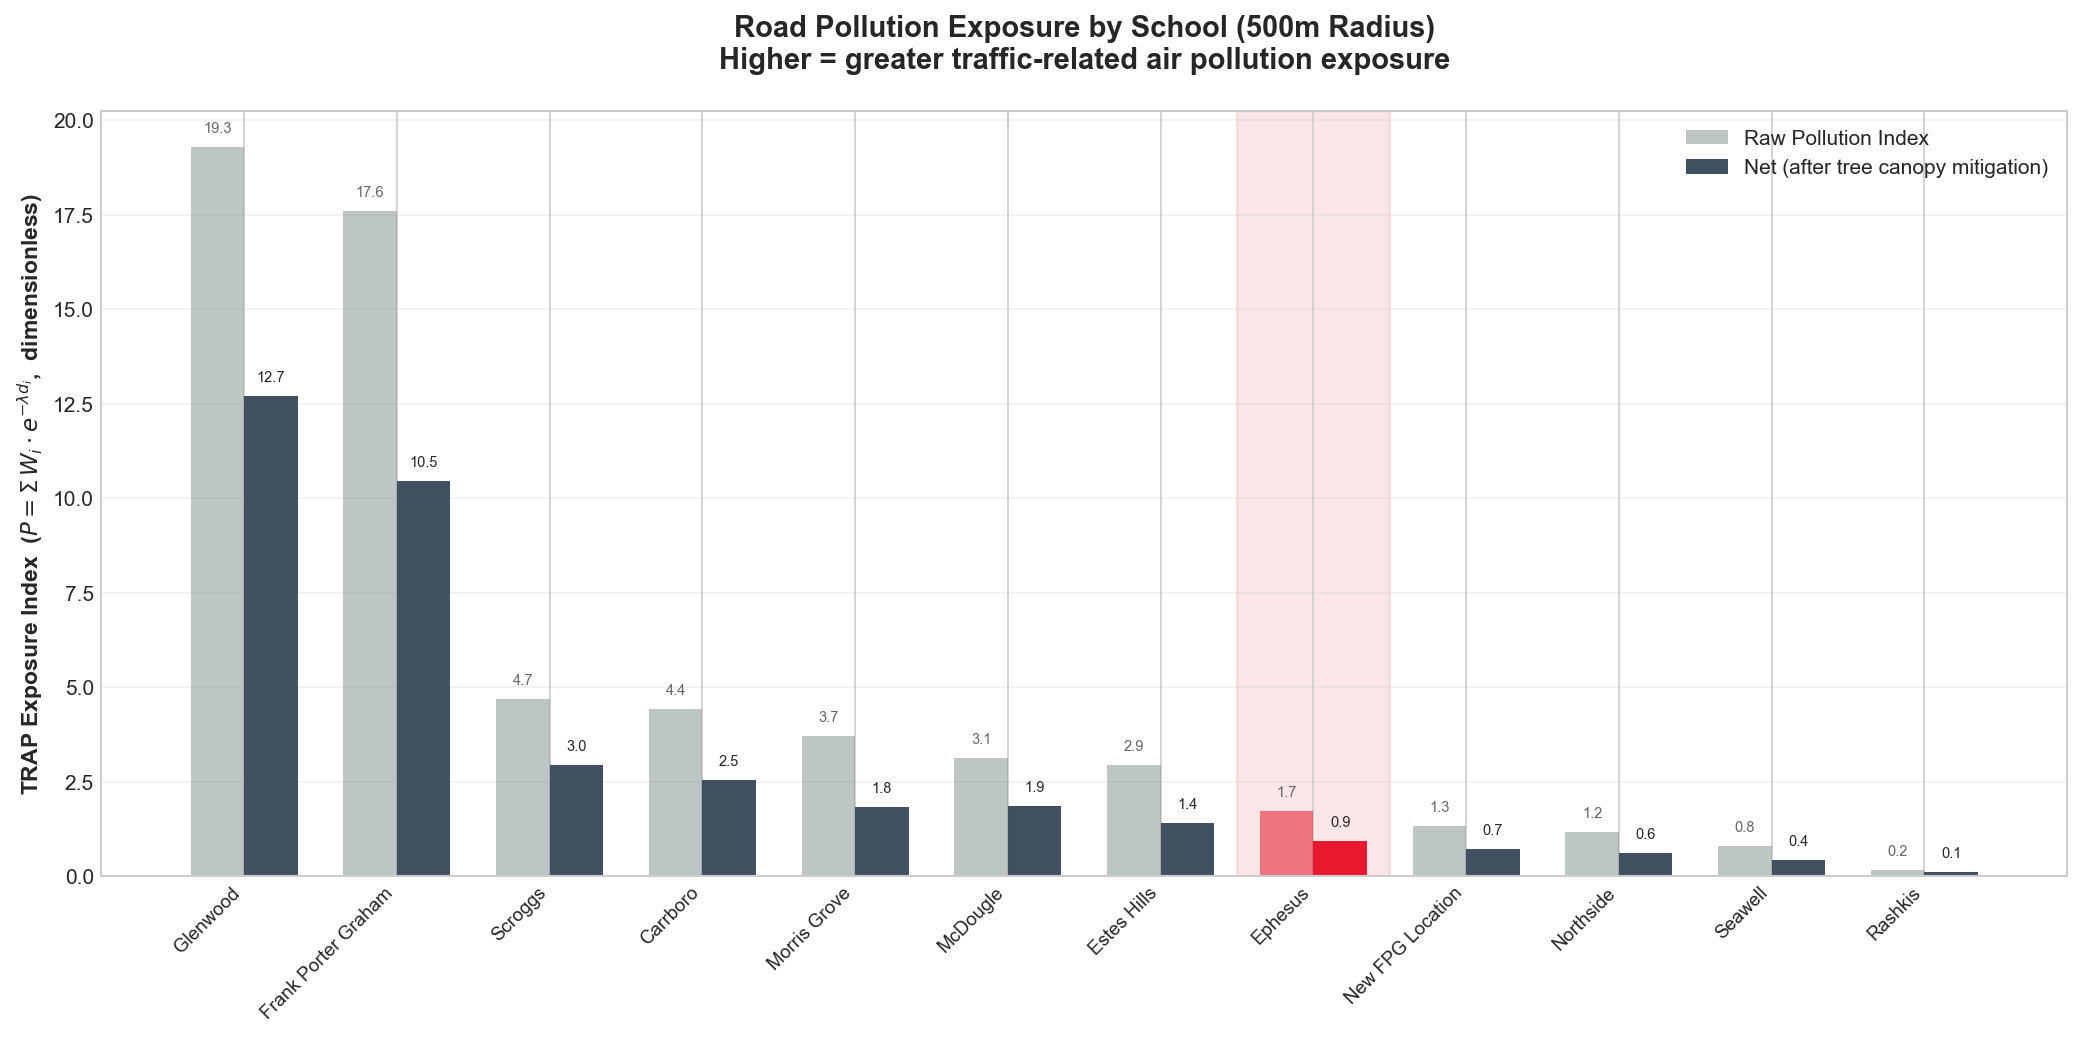
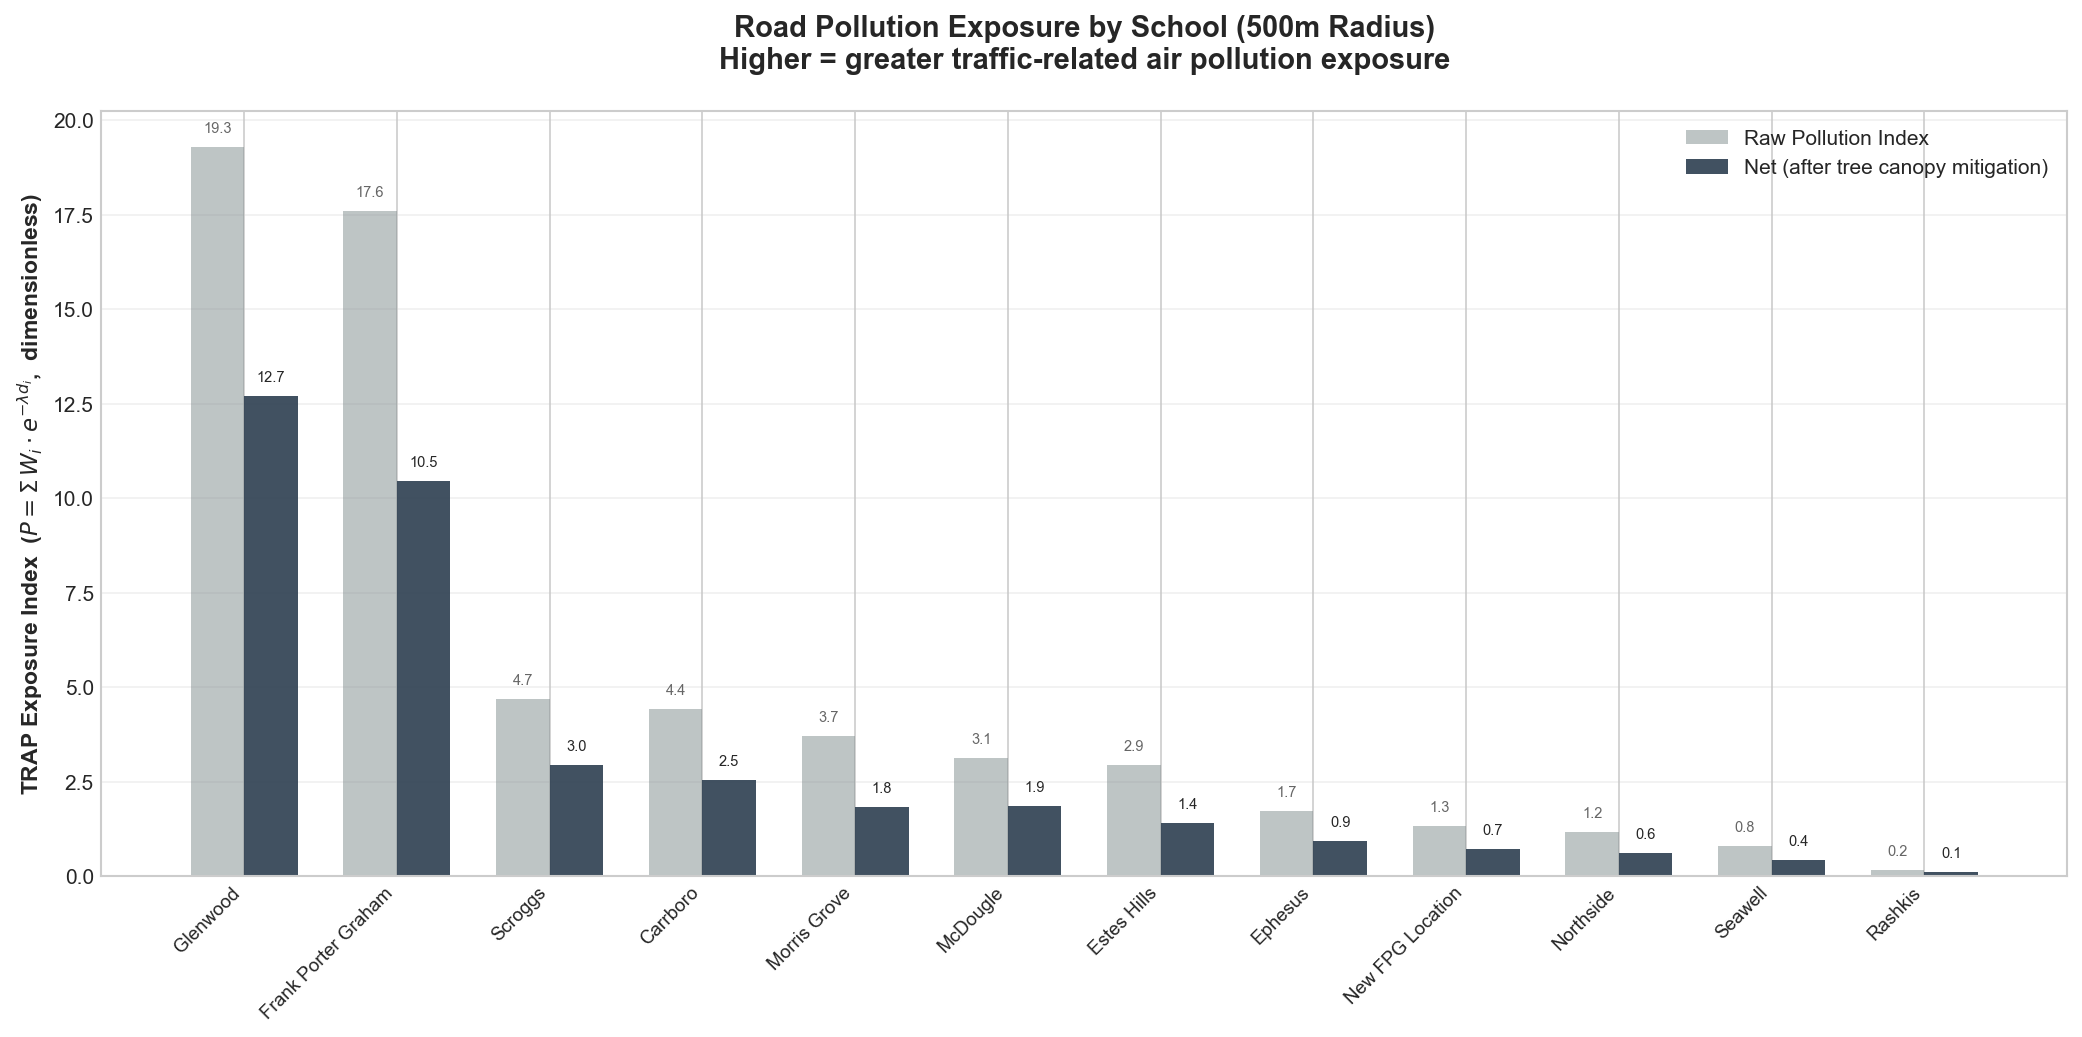
Remove Ephesus highlighting from road pollution comparison chart
Treat all schools uniformly with consistent grey bars and no background
highlight band, so the chart presents an unbiased comparison.

Changed region(s): [[0.5932, 0.0926, 0.6868, 0.864]]

diff --git a/src/road_pollution.py b/src/road_pollution.py
@@ -1181,9 +1181,8 @@ def create_pollution_chart(df: pd.DataFrame):
     raw_vals = df_sorted["raw_500m"].values
     net_vals = df_sorted["net_500m"].values
 
-    # Colors: Ephesus in red, others gray
-    raw_colors = [EPHESUS_COLOR if "Ephesus" in s else "#7f8c8d" for s in schools]
-    net_colors = [EPHESUS_COLOR if "Ephesus" in s else "#2c3e50" for s in schools]
+    raw_colors = "#7f8c8d"
+    net_colors = "#2c3e50"
 
     bars_raw = ax.bar(x - width/2, raw_vals, width,
                       label="Raw Pollution Index", color=raw_colors, alpha=0.5)
@@ -1198,10 +1197,6 @@ def create_pollution_chart(df: pd.DataFrame):
         ax.text(bar.get_x() + bar.get_width()/2, bar.get_height() + 0.3,
                 f"{val:.1f}", ha="center", va="bottom", fontsize=7)
 
-    # Highlight Ephesus column
-    for i, s in enumerate(schools):
-        if "Ephesus" in s:
-            ax.axvspan(i - 0.5, i + 0.5, alpha=0.1, color=EPHESUS_COLOR, zorder=0)
 
     ax.set_xticks(x)
     ax.set_xticklabels(short_names, fontsize=9, rotation=45, ha="right")
